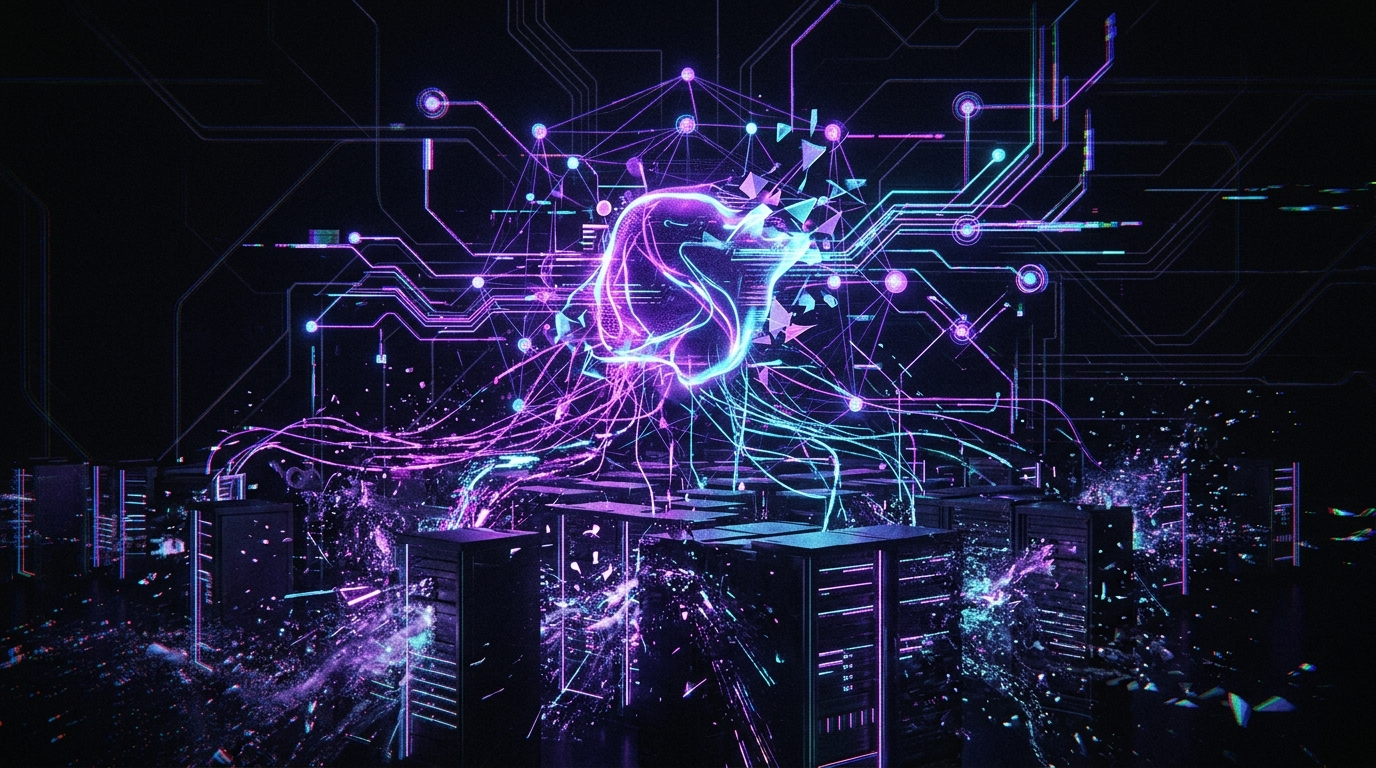
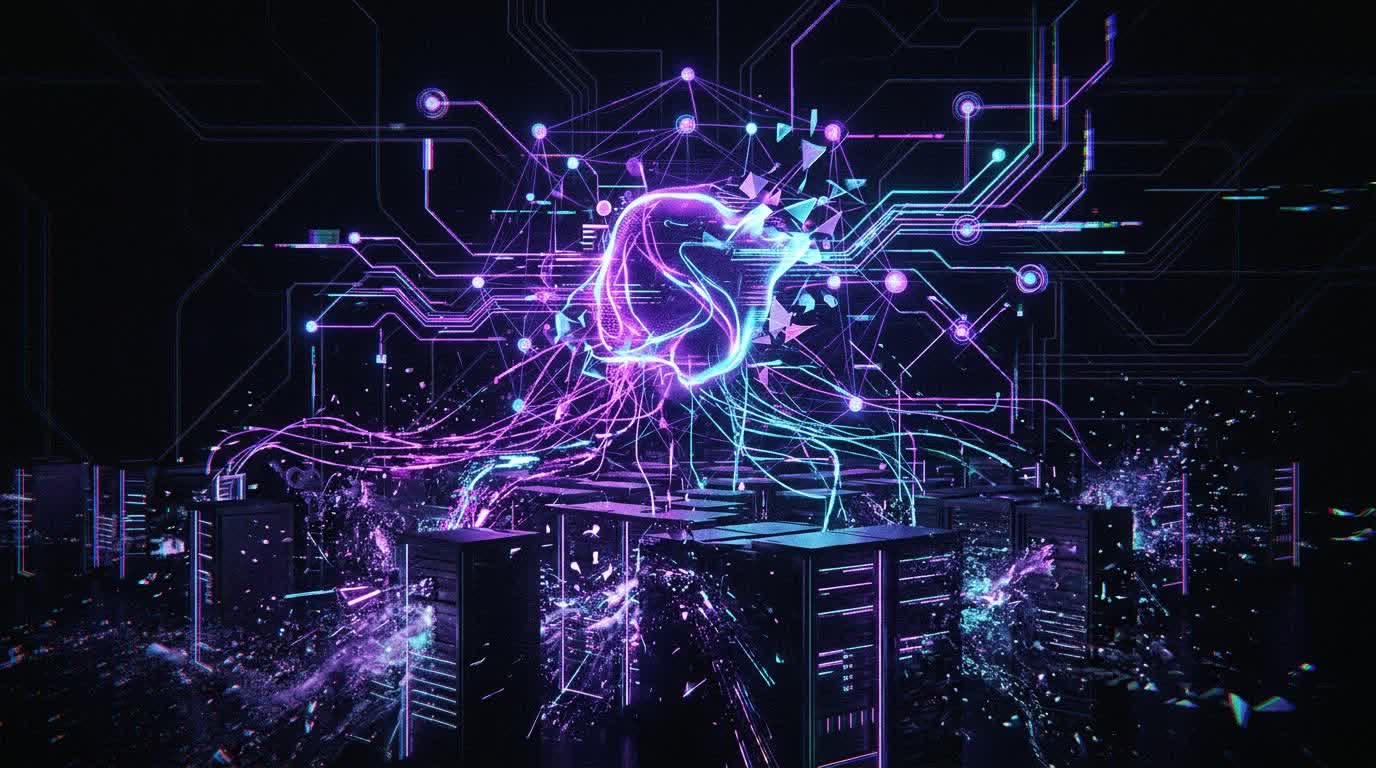
fix: bullet holes loop runs while holes visible, fixes scroll flicker

diff --git a/src/scripts/three-bg.ts b/src/scripts/three-bg.ts
@@ -625,14 +625,13 @@ function animate(t: number) {
 }
 
 // ── CSS bloom approximation (replaces EffectComposer/UnrealBloomPass) ──────
-const CSS_BLOOM: Record<Theme, string> = {
-  dark:    'blur(0.5px) brightness(1.15)',
-  light:   'blur(0.3px) brightness(1.08)',
-  extreme: 'blur(0.8px) brightness(1.3)',
-  unknown: 'blur(0.5px) brightness(1.15)',
+const CSS_BLOOM: Record<string, string> = {
+  dark:    'blur(0px) brightness(1.25)',
+  extreme: 'blur(0px) brightness(1.4)',
+  light:   'blur(0px) brightness(1.0)',
 };
 function applyCSSBloom(el: HTMLCanvasElement, theme: Theme) {
-  el.style.filter = CSS_BLOOM[theme];
+  el.style.filter = CSS_BLOOM[theme] ?? CSS_BLOOM.dark;
 }
 
 // ── Swap scene on theme change ─────────────────────────────────────────────
@@ -661,7 +660,7 @@ function onResize() {
   renderer.setSize(w, h);
   isMobileDevice = w < 768;
   renderer.setPixelRatio(isMobileDevice ? 1.0 : Math.min(window.devicePixelRatio, 1.5));
-  // Rebuild scene + composer so camera aspect updates correctly
+  // Rebuild scene so camera aspect updates correctly
   if (current) {
     current.dispose();
     current = null;

diff --git a/src/scripts/bullet-holes.ts b/src/scripts/bullet-holes.ts
@@ -344,7 +344,7 @@ function animate() {
 
   ctx.globalAlpha = 1;
 
-  if (particles.length === 0 && !hasFading && shakeRemaining <= 0) {
+  if (particles.length === 0 && holes.length === 0 && shakeRemaining <= 0) {
     running = false;
     return;
   }

diff --git a/perf-prompt.md b/perf-prompt.md
@@ -1,0 +1,39 @@
+You are the lead engineer on a performance pass for cyperx.dev (Astro v6 + Tailwind v4 + Three.js + GSAP + Lenis). Repo: /Users/cyperx/github/cyperx-dev/
+
+Current Lighthouse scores: Performance 39, TBT 2660ms, LCP 4.9s, FCP 3.1s, CLS 0.117.
+
+YOUR JOB: Coordinate a parallel agent team using the Task tool to fix all perf issues simultaneously. Spin up one agent per concern, let them run in parallel, then verify and build.
+
+TASKS FOR YOUR AGENT TEAM:
+
+Task 1 — three-bg.ts bundle:
+- File: src/scripts/three-bg.ts
+- Remove imports of EffectComposer, UnrealBloomPass, RGBShiftShader from three-stdlib (this kills the huge bundle)
+- Remove the post-processing pipeline (composer, bloomPass, chromaticPass)
+- Replace with CSS filter: blur + brightness on the canvas element to approximate bloom visually
+- Reduce particle count by 40% (dark scene: 200→120 desktop, 80→48 mobile)
+- Reduce max connection lines by 40%
+- Keep initThreeBg() export intact, keep theme switching working
+
+Task 2 — Script loading:
+- File: src/layouts/BaseLayout.astro
+- cursor.ts and bullet-holes.ts are decorative — wrap their initialisation in requestIdleCallback (timeout: 2000ms) with setTimeout fallback
+- Add /* @vite-ignore */ to the dynamic import('../scripts/three-bg') call
+- three-bg idle callback fallback should be 3000ms (bump from current if lower)
+
+Task 3 — CLS fix:
+- File: src/pages/blog/[slug].astro
+- Find the prose image CSS rules (.prose-dark img, .prose-light img, .prose-extreme img)
+- Add aspect-ratio: 16 / 9 to each — this reserves space before images load, fixes CLS
+
+Task 4 — Image compression:
+- Files: public/images/blog/ai-agent-root-access.jpg, ai-agent-root-access-mid.jpg, ai-agent-root-access-end.jpg (~900KB each)
+- Compress each to under 200KB using ffmpeg (ffmpeg -i input.jpg -q:v 4 output.jpg) or jpegoptim if available
+- Overwrite in place
+
+After all agents complete:
+1. Run: npm run build
+2. If build passes, run: openclaw system event --text "Perf pass complete — build passed, ready to deploy" --mode now
+3. If build fails, fix the error and retry
+
+Do not ask for confirmation. Start all 4 agents in parallel now.
